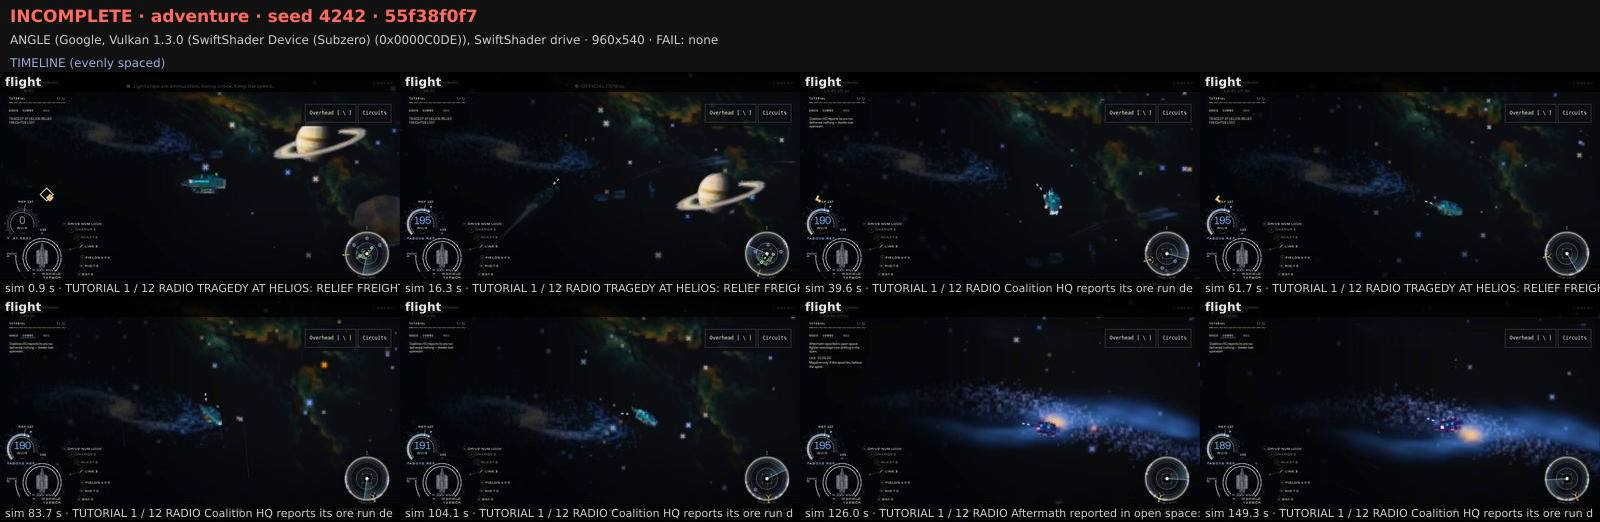
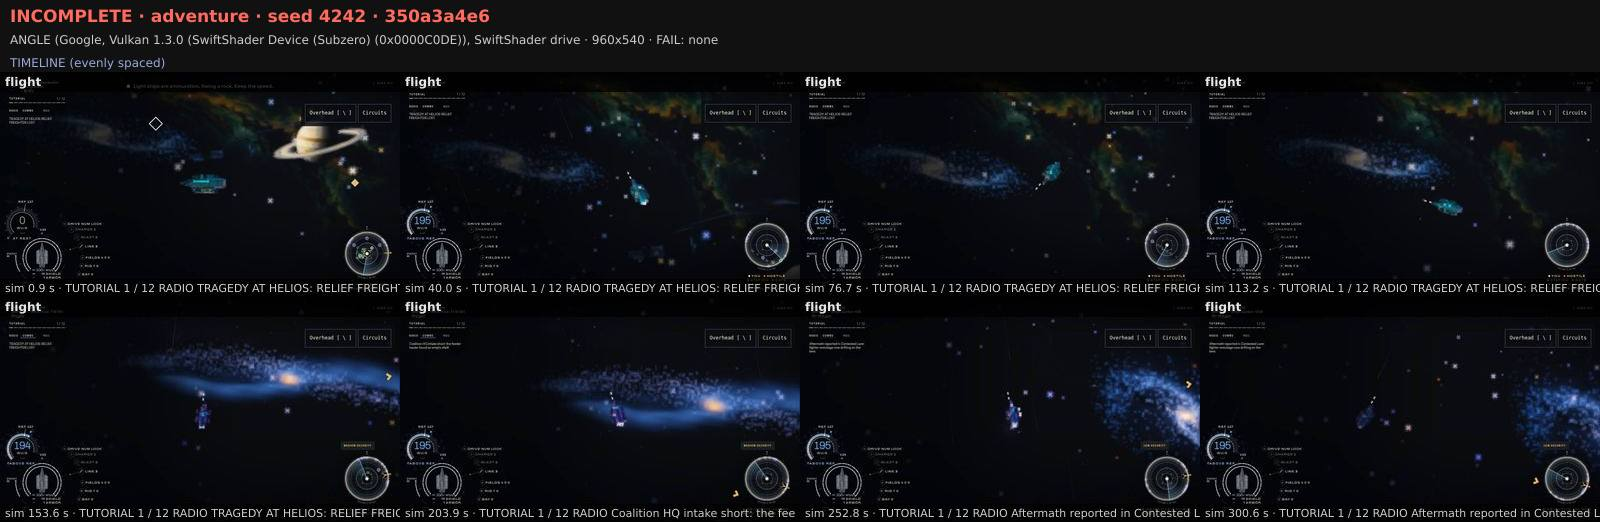
starter integration: attach the full adventure player-truth run
The 300 s tutorial-on cruise on this flight code is INCOMPLETE and flags no failure. Thrust, yaw, and tumble pass, and the ship stays on screen. Readability and frame time stay ungraded, so no flight or input change follows from this run.

diff --git a/design/program/starter-integration/INTEGRATION_NOTES.md b/design/program/starter-integration/INTEGRATION_NOTES.md
@@ -105,27 +105,29 @@ Useful without the sibling branches:
 
 ## Player-truth adventure
 
-Required gate for the tutorial-on circuit, run once the harness existed:
+Full tutorial-on gate, default adventure length, on this branch after the rebase onto `c15b0e913`:
 
-`npm run player-truth -- --mode=adventure --duration=150 --evidence --wall=35`
+`npm run player-truth -- --mode=adventure --wall=55`
 
-The recorded build is `55f38f0f7` (dirty). That commit was a local merge of the pre-rebase flight head `cd22d5d89` and harness `ec37c3d2e`. The scratch branch was never pushed and has been deleted. Dirty is `scripts/player-truth/run.mjs` only: an uncommitted launch used system Chrome at `/usr/bin/google-chrome` (`channel: 'chrome'`, `--no-sandbox`, `--disable-dev-shm-usage`) because Playwright's bundled Chromium is not installed on this box. That patch was reverted before the scratch branch was deleted. It is not on this branch. An empty diff of the owned flight, input, audio, camera, and tether files between `cd22d5d89` and the rebased head is the game tree this verdict grades. Master's later harness commit `da74b69c0` only prints the game entity id (`id % 1e6`) on offender lines and pluralizes the popping count. This run had no FAIL, so that wording does not move a grade.
+Recorded build `350a3a4e6`, not dirty. `src` and `scripts` were unmodified. Playwright's bundled Chromium is not installed here; a launcher outside the repo pointed the expected browser path at system Chrome with `--no-sandbox`. That wrapper is not a repo change. `SPACEFACE_PLAYER_STORE_DIR` and `SPACEFACE_USER_CONTENT_DIR` were empty.
 
-Exit code 2. Overall **INCOMPLETE**. No page errors. Seed 4242. Software GL (SwiftShader), headless Chromium 154.0.8037.57, 960×540. Wall 1395 s, play sim 150.4 s, 2698 frames, 66 screenshots. Stopped because the 150 s duration was reached. The player script was idle 6 s, then thrust and yaw probes, then cruise thrust bursts and turns.
+Exit code 2. Overall **INCOMPLETE**. No check is **FAIL**. Seed 4242. Software GL (SwiftShader), headless Chromium 154.0.8037.57, 960×540. Wall 2564 s, play sim 300.8 s, 5296 frames, 127 screenshots. Stopped because the 300 s duration was reached. The script was idle 6 s, then thrust and yaw probes, then cruise thrust bursts and turns. Tutorial hints were true. Flight began at sim 0.4 s.
 
 | Check | Result |
 |---|---|
-| route | **PASS** — main menu → mode select → preparation → spawn → play. Tutorial hints true. Default pilot and ship, Launch. Flight at sim 0.2 s. |
-| player_control | **PASS** — 0/2 probes dead. KeyW thrust Δv 189.9 over sim 6.32–7.55 s. KeyD yaw 2.40 rad over sim 7.55–8.37 s. |
+| route | **PASS** — main menu → mode select → preparation → spawn → play. |
+| player_control | **PASS** — 0/2 probes dead. Spawn thrust Δv 192.0. Spawn yaw 2.45 rad. |
 | tumble | **PASS** — longest 0 s. |
-| player_ship | **PASS** — 0/2580 frames bad. |
+| player_ship | **PASS** — 0/5212 frames bad. |
 | spawn_motion | **PASS** — 0 bodies. |
-| lod_churn | **PASS** — 0/s. |
+| lod_churn | **PASS** — max 1/10 s per entity, 0/s total. |
 | popping | **PASS** — 0.4/min, worst entity 1 toggle. |
 | vfx_coverage | **PASS** — p95 0% of the screen. |
 | readability | **UNKNOWN** — enemy 0, asteroid 0, projectile 0, pickup 0 (need 5). |
-| frame_time | **UNKNOWN** — p50 72 ms, p99 238 ms, 8 long tasks ≥250 ms. Software GL, not graded. |
+| frame_time | **UNKNOWN** — p50 67 ms, p99 189 ms, 11 long tasks ≥250 ms. Software GL, not graded. |
 | round_resolution, kills_before_input, reward_before_input, loadout | n/a |
+
+No flight, input, camera, tether, or audio change came out of this run. The two open checks are ungraded, not failed: the cruise puts no hostile, rock, shot, or pickup on screen, and the harness refuses to grade frame time on SwiftShader.
 
 Copies of the harness output, unchanged:
 
@@ -133,7 +135,7 @@ Copies of the harness output, unchanged:
 - `design/program/starter-integration/player-truth/adventure/verdict.json`
 - `design/program/starter-integration/player-truth/adventure/contact-sheet.jpg`
 
-The sheet header is `INCOMPLETE · adventure · seed 4242 · 55f38f0f7` and `FAIL: none`. Speed climbs from 0 to about 195 by sim 16 s and later holds near 180–189. The tutorial strip stays `TUTORIAL 1 / 12` for the whole 150 s. The earlier custom public session remains the evidence that a Space latch, reel, and cut, plus blur, F5, pause, and Continue, work through the public keys. This harness cruise does not press Massline, so it does not replace that session.
+The sheet header is `INCOMPLETE · adventure · seed 4242 · 350a3a4e6` and `FAIL: none`. Speed is about 195–196 through the cruise. The tutorial strip stays `TUTORIAL 1 / 12` from sim 0.9 s through sim 300.6 s. The earlier custom public session remains the evidence that a Space latch, reel, and cut, plus blur, F5, pause, and Continue, work through the public keys. This harness cruise does not press Massline, so it does not replace that session.
 
 ### Routed: the adventure cruise never arms the tether lesson
 

diff --git a/design/program/starter-integration/player-truth/adventure/verdict.md b/design/program/starter-integration/player-truth/adventure/verdict.md
@@ -1,10 +1,10 @@
 # Player-truth verdict: INCOMPLETE — adventure
 
-- Mode: adventure · seed 4242 · build 55f38f0f7 (dirty)
+- Mode: adventure · seed 4242 · build 350a3a4e6
 - Renderer: ANGLE (Google, Vulkan 1.3.0 (SwiftShader Device (Subzero) (0x0000C0DE)), SwiftShader driver) — SOFTWARE GL (SwiftShader): slow, frame times not representative
-- Browser: headless Chromium 154.0.8037.57 · 960x540 · 2026-10-12T02:53:15.178Z
-- Run: 1395 s wall, 150.4 s of play sim time, 2698 frames sampled, 66 screenshots · player script: idle 6 s → thrust/yaw probes → cruise: thrust bursts and turns
-- Stopped: duration 150 sim s reached
+- Browser: headless Chromium 154.0.8037.57 · 960x540 · 2026-10-12T04:03:10.637Z
+- Run: 2564 s wall, 300.8 s of play sim time, 5296 frames sampled, 127 screenshots · player script: idle 6 s → thrust/yaw probes → cruise: thrust bursts and turns
+- Stopped: duration 300 sim s reached
 
 | Check | Result | Measured | Threshold |
 |---|---|---|---|
@@ -15,20 +15,20 @@
 | spawn_motion | **PASS** | 0 bodies | 0 passive bodies >8 u/s within 900 u |
 | player_control | **PASS** | 0/2 probes dead | thrust Δv≥3 u/s · yaw Δ≥0.2 rad |
 | tumble | **PASS** | longest 0 s | <0.5 s out of plane / uncommanded spin |
-| player_ship | **PASS** | 0% frames bad (0/2580) | ≤0.5% |
-| lod_churn | **PASS** | max 0/10s per entity · 0/s total | ≤3/10s per entity · ≤1/s total |
-| popping | **PASS** | 0.4/min · worst entity 1 toggles | ≤6/min · ≤2 toggles |
+| player_ship | **PASS** | 0% frames bad (0/5212) | ≤0.5% |
+| lod_churn | **PASS** | max 1/10s per entity · 0/s total | ≤3/10s per entity · ≤1/s total |
+| popping | **PASS** | 0.4/min · worst entity 1 toggle | ≤6/min · ≤2 toggles |
 | readability | **UNKNOWN** | — | separation ≥1 |
 | vfx_coverage | **PASS** | p95 0% screen · player hidden 0% · threats hidden p95 n/a · 0 s persist | ≤25% · ≤10% · ≤30% · ≤3 s |
 | loadout | **n/a** | — | 0 irrelevant · 0 undescribed · 0 silent swaps |
-| frame_time | **UNKNOWN** | p50 72 ms · p99 238 ms · 8 long tasks ≥250 ms | p99 ≤50 ms · 0 long tasks ≥250 ms |
+| frame_time | **UNKNOWN** | p50 67 ms · p99 189 ms · 11 long tasks ≥250 ms | p99 ≤50 ms · 0 long tasks ≥250 ms |
 
 ## Worst offenders
 - **readability** (UNKNOWN) — not enough on-screen samples per class (enemy 0, asteroid 0, projectile 0, pickup 0; need 5)
 - **frame_time** (UNKNOWN) — software GL (SwiftShader): frame time is not the player's — rerun headed on a GPU to grade
-  - long task 4959 ms at sim 0.1 s (frame 120)
-  - long task 1317 ms at sim 0.1 s (frame 120)
-  - long task 814 ms at sim 0.2 s (frame 124)
+  - long task 8397 ms at sim 290.9 s (frame 5122)
+  - long task 3249 ms at sim 0.4 s (frame 95)
+  - long task 1632 ms at sim 0.4 s (frame 96)
 
 ## Files
 - verdict: `scratch/player-truth/adventure/verdict.md`
